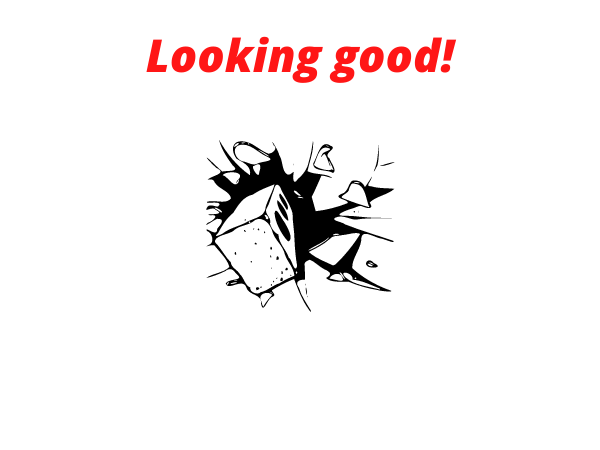
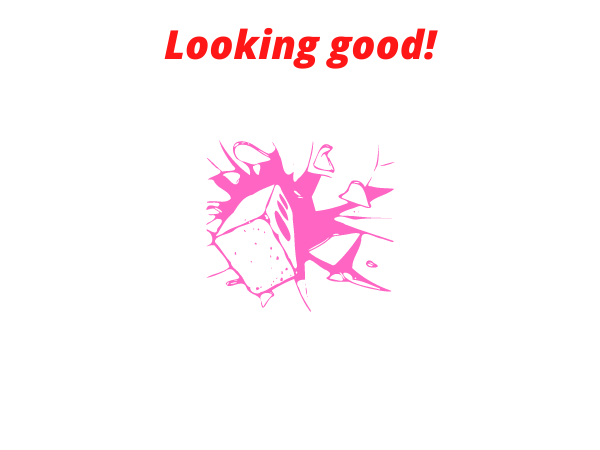
add an image to the background of the game

diff --git a/src/main/java/FX/Controller/GameStateController.java b/src/main/java/FX/Controller/GameStateController.java
@@ -14,32 +14,25 @@ import javafx.animation.AnimationTimer;
 import javafx.fxml.FXML;
 import javafx.fxml.FXMLLoader;
 import javafx.fxml.Initializable;
-import javafx.geometry.Point2D;
-import javafx.scene.Node;
 import javafx.scene.Parent;
 import javafx.scene.Scene;
 import javafx.scene.canvas.Canvas;
 import javafx.scene.canvas.GraphicsContext;
 import javafx.scene.image.Image;
 import javafx.scene.input.KeyCode;
-import javafx.scene.input.KeyEvent;
 import javafx.scene.layout.AnchorPane;
-import javafx.scene.layout.ColumnConstraints;
-import javafx.scene.layout.GridPane;
-import javafx.scene.layout.Pane;
 import javafx.scene.paint.Color;
 import javafx.scene.shape.Rectangle;
-import javafx.scene.text.Font;
-import javafx.scene.text.FontPosture;
-import javafx.scene.text.FontWeight;
-import javafx.scene.text.Text;
 import javafx.stage.Modality;
 import javafx.stage.Stage;
 
+import javax.imageio.ImageIO;
+import java.awt.image.BufferedImage;
 import java.io.IOException;
 import java.net.URISyntaxException;
 import java.net.URL;
 import java.util.ArrayList;
+import java.util.Objects;
 import java.util.ResourceBundle;
 
 public class GameStateController implements Initializable {
@@ -47,14 +40,14 @@ public class GameStateController implements Initializable {
     private Game game;
     private GameScore gameScore;
     private GraphicsContext graphicsContext;
+    private GameScoreDisplay gameScoreDisplay;
     private final Color stringColor = Color.BLUE;
     private AnimationTimer animationTimer;
+    private Scene scene;
+
     @FXML private Canvas gameBoard;
     @FXML private AnchorPane anchorPane;
-    Image backgroundImage;
-    Scene scene;
 
-    private GameScoreDisplay gameScoreDisplay;
 
     boolean toggle = true;
 
@@ -62,9 +55,12 @@ public class GameStateController implements Initializable {
 
         game = Game.singletonGame();
         gameScore = GameScore.singletonGameScore();
+        gameScoreDisplay = new GameScoreDisplay();
 
         game.setBrickLevels(makeLevels(game.getPlayArea(),30,3,6/2));
-        startGame();
+
+        game.nextLevel();
+        gameScore.setLevelFilePathName("/scores/Level"+ game.getCurrentLevel()+".txt");
     }
 
     @FXML
@@ -78,7 +74,7 @@ public class GameStateController implements Initializable {
         animationTimer = new AnimationTimer() {
             @Override
             public void handle(long l) {
-                graphicsContext.clearRect(0,0,600,450);
+                graphicsContext.drawImage(new Image(Objects.requireNonNull(getClass().getResourceAsStream("/images/GameImage.png"))),0,0);
 
                 graphicsContext.setLineWidth(2);
 
@@ -130,11 +126,6 @@ public class GameStateController implements Initializable {
         animationTimer.start();
 
         anchorPane.requestFocus();
-    }
-
-    private void startGame(){
-        game.nextLevel();
-        gameScore.setLevelFilePathName("/scores/Level"+ game.getCurrentLevel()+".txt");
     }
 
     private void pauseButtonClicked(){
